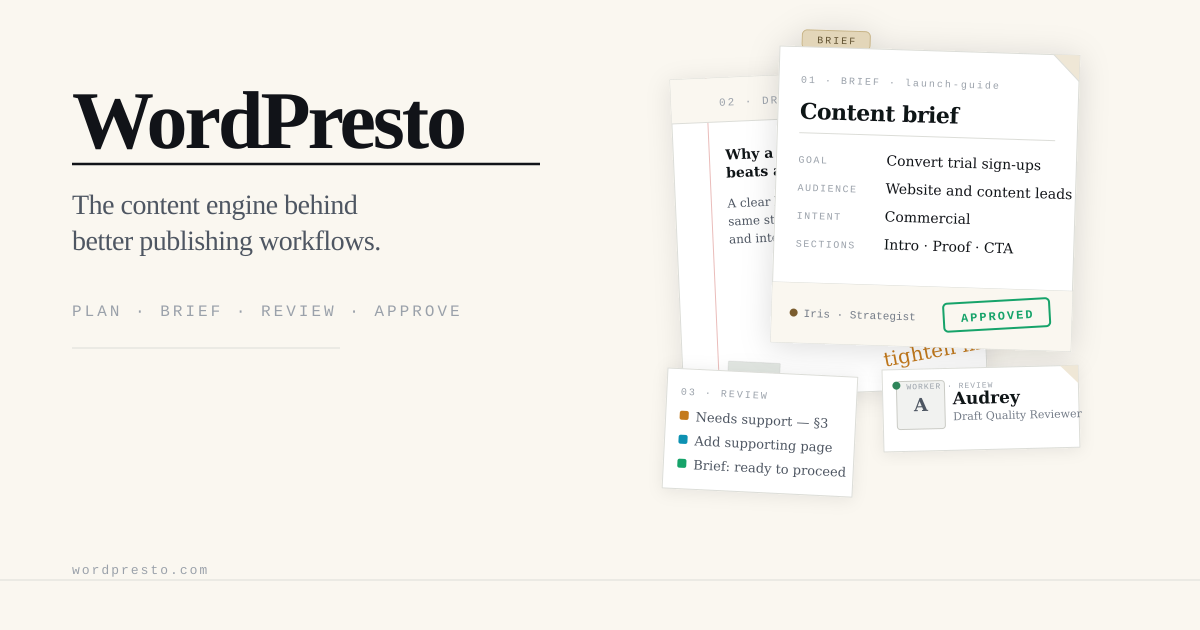
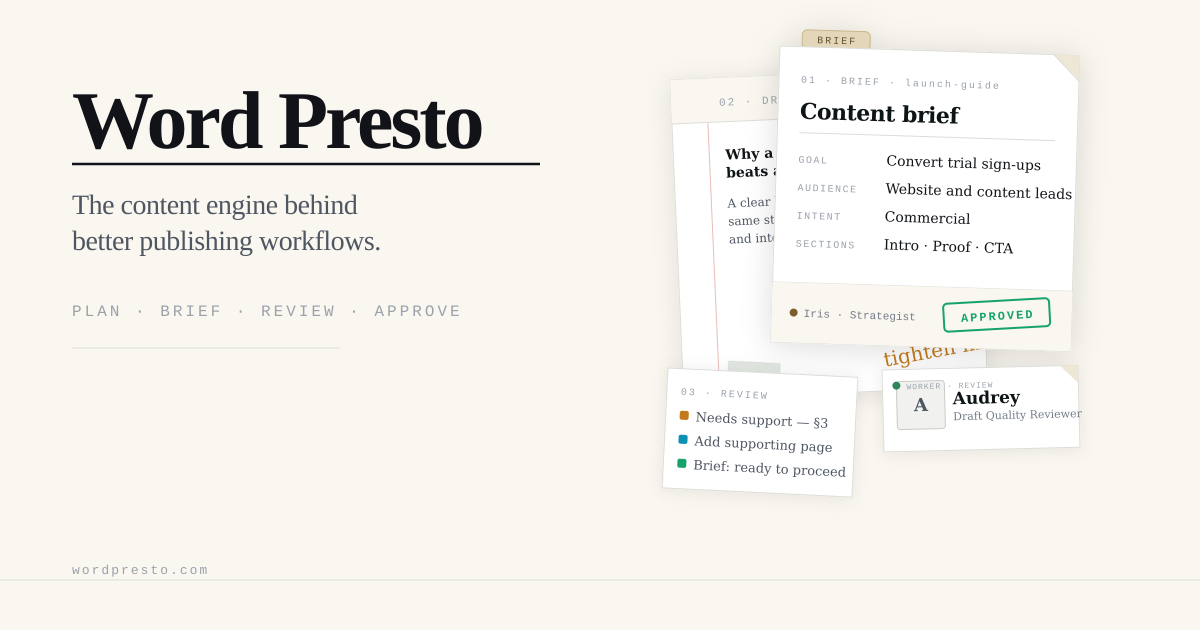
Rename WordPresto → Word Presto throughout all display text
Brand name is two words. Updates all visible copy, alt text, OG metadata,
SEO titles, page headings, waitlist copy, footer, and generated file scripts.
Domain names (wordpresto.com) and package names are unchanged.

https://claude.ai/code/session_01TWtSHiaB8tmaiaPf9HrL1F

Changed region(s): [[0.2158, 0.1508, 0.4008, 0.2413]]

diff --git a/src/data/pages.ts b/src/data/pages.ts
@@ -19,17 +19,17 @@ export interface PageData {
 
 export const homePage: PageData = {
   slug: '/',
-  pageTitle: 'WordPresto is the content engine behind better publishing workflows.',
-  seoTitle: 'Content workflow engine for publishing teams | WordPresto',
+  pageTitle: 'Word Presto is the content engine behind better publishing workflows.',
+  seoTitle: 'Content workflow engine for publishing teams | Word Presto',
   metaDescription:
     'Plan, brief, write, review and improve content before it reaches your CMS, website or client.',
   focus: 'Content workflow engine for publishing teams',
   summary:
-    'WordPresto is a structured content workflow engine. It gives teams a clear path from idea to approval — plan, brief, draft, review, improve, approve and prepare for handoff — before anything is published.',
+    'Word Presto is a structured content workflow engine. It gives teams a clear path from idea to approval — plan, brief, draft, review, improve, approve and prepare for handoff — before anything is published.',
   sections: [
     {
       id: 'hero',
-      heading: 'WordPresto is the content engine behind better publishing workflows.',
+      heading: 'Word Presto is the content engine behind better publishing workflows.',
       body: 'Plan, brief, write, review and improve content before it reaches your CMS, website or client.',
       note: 'Built for copywriters, business owners, website teams and agencies who need structure, quality control and momentum without handing judgement to a black box.',
     },
@@ -67,7 +67,7 @@ export const homePage: PageData = {
       id: 'capabilities',
       eyebrow: 'Before the website',
       heading: 'Before it reaches the website.',
-      body: 'Most of the important work happens before anything is published. WordPresto gives that work a clearer path: from idea, to brief, to draft, to review, to improvement, to approval and handoff.',
+      body: 'Most of the important work happens before anything is published. Word Presto gives that work a clearer path: from idea, to brief, to draft, to review, to improvement, to approval and handoff.',
       items: [
         { title: 'Plan the work', body: 'Turn loose ideas and business priorities into a clear direction for the page.' },
         { title: 'Create the brief', body: 'Give writers the goal, audience, angle and structure before anyone starts drafting.' },
@@ -80,7 +80,7 @@ export const homePage: PageData = {
     {
       id: 'use-cases',
       eyebrow: 'Three routes out',
-      heading: 'Use WordPresto with the stack you have, or the one you are building next.',
+      heading: 'Use Word Presto with the stack you have, or the one you are building next.',
       body: 'One content engine. Three ways the finished work leaves the desk.',
       items: [
         {

diff --git a/public/pages/index.md b/public/pages/index.md
@@ -1,18 +1,18 @@
 ---
-title: "WordPresto is the content engine behind better publishing workflows."
-seoTitle: "Content workflow engine for publishing teams | WordPresto"
+title: "Word Presto is the content engine behind better publishing workflows."
+seoTitle: "Content workflow engine for publishing teams | Word Presto"
 description: "Plan, brief, write, review and improve content before it reaches your CMS, website or client."
 canonical: "https://wordpresto.com/"
 focus: "Content workflow engine for publishing teams"
 ---
 
-# WordPresto is the content engine behind better publishing workflows.
+# Word Presto is the content engine behind better publishing workflows.
 
 Plan, brief, write, review and improve content before it reaches your CMS, website or client.
 
 ---
 
-WordPresto is a structured content workflow engine. It gives teams a clear path from idea to approval — plan, brief, draft, review, improve, approve and prepare for handoff — before anything is published.
+Word Presto is a structured content workflow engine. It gives teams a clear path from idea to approval — plan, brief, draft, review, improve, approve and prepare for handoff — before anything is published.
 
 ## The problem: messy workflows, not poor writers
 
@@ -39,7 +39,7 @@ A structured place for content to move from idea to approval. Each stage has a c
 
 ## Before it reaches the website
 
-Most of the important work happens before anything is published. WordPresto gives that work a clearer path: from idea, to brief, to draft, to review, to improvement, to approval and handoff.
+Most of the important work happens before anything is published. Word Presto gives that work a clearer path: from idea, to brief, to draft, to review, to improvement, to approval and handoff.
 
 - Plan the work — turn loose ideas and business priorities into a clear direction for the page.
 - Create the brief — give writers the goal, audience, angle and structure before anyone starts drafting.
@@ -48,7 +48,7 @@ Most of the important work happens before anything is published. WordPresto give
 - Improve the weak parts — tighten sections that are unclear, thin, repetitive or not doing their job.
 - Prepare the handoff — package the approved work so it can move cleanly into a website, CMS or client review process.
 
-## Three ways to use WordPresto
+## Three ways to use Word Presto
 
 One content engine. Three ways the finished work leaves the desk.
 